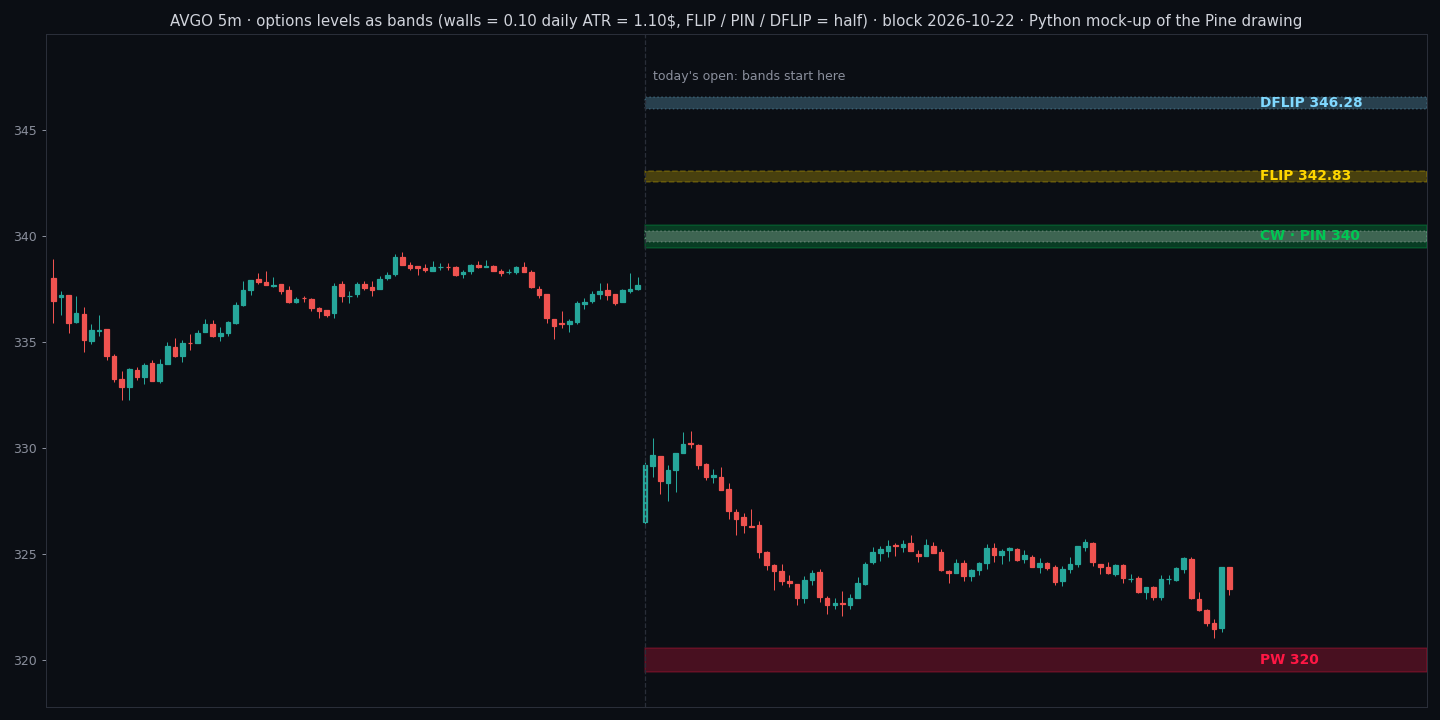
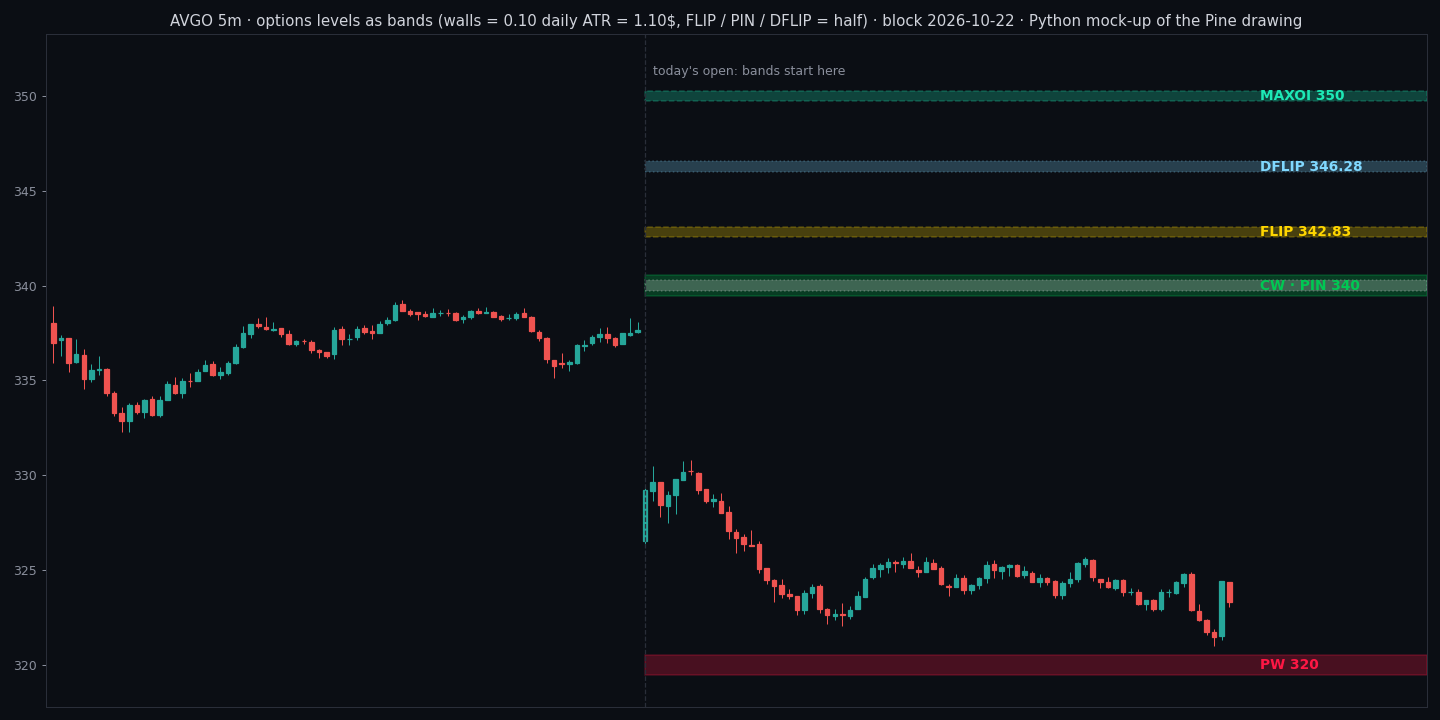
Options levels: MAXOI (highest open-interest strike, fixed for the day) in the block, the indicator and the panel
Measured on 560 symbol-days of GEXRadar snapshots: MAXOI stays fixed all day on 85% of days, while PIN follows price.

diff --git a/reports/make_gex_bands_preview.py b/reports/make_gex_bands_preview.py
@@ -8,7 +8,7 @@ import yfinance as yf
 from vzones.gex_block import parse_block
 ROOT = pathlib.Path(__file__).resolve().parent.parent
 
-BLOCK = "DATE=2026-10-22\nAVGO: CW=340 PW=320 FLIP=342.83 PIN=340 DFLIP=346.28"
+BLOCK = "DATE=2026-10-22\nAVGO: CW=340 PW=320 FLIP=342.83 PIN=340 DFLIP=346.28 MAXOI=350"
 lv = parse_block(BLOCK, "AVGO")
 d = yf.Ticker("AVGO").history(period="5d", interval="5m", prepost=False)
 days = sorted({t.date() for t in d.index})[-2:]
@@ -20,8 +20,8 @@ H, L, O, C = (d[k].to_numpy() for k in ("High", "Low", "Open", "Close")); N = le
 t0 = next(i for i, t in enumerate(d.index) if t.date() == days[-1])
 
 BG, GR, TX, MUT = "#0b0e14", "#2a2e39", "#d1d4dc", "#8a8f9c"
-COL = {"CW": "#00c853", "PW": "#ff1744", "FLIP": "#ffd600", "PIN": "#e0e0e0", "DFLIP": "#80d8ff"}
-STY = {"CW": "-", "PW": "-", "FLIP": "--", "PIN": ":", "DFLIP": ":"}
+COL = {"CW": "#00c853", "PW": "#ff1744", "FLIP": "#ffd600", "PIN": "#e0e0e0", "DFLIP": "#80d8ff", "MAXOI": "#1de9b6"}
+STY = {"CW": "-", "PW": "-", "FLIP": "--", "PIN": ":", "DFLIP": ":", "MAXOI": "--"}
 band = 0.10 * datr
 fig, ax = plt.subplots(figsize=(16, 8), facecolor=BG)
 ax.set_facecolor(BG); ax.tick_params(colors=MUT); [s.set_color(GR) for s in ax.spines.values()]
@@ -30,7 +30,7 @@ for i in range(N):
     ax.vlines(i, L[i], H[i], color=col, lw=.8)
     ax.add_patch(Rectangle((i - .3, min(O[i], C[i])), .6, max(abs(C[i] - O[i]), 1e-3), color=col))
 right = N + 25
-KEYS = ("CW", "PW", "FLIP", "PIN", "DFLIP")
+KEYS = ("CW", "PW", "FLIP", "PIN", "DFLIP", "MAXOI")
 for i, k in enumerate(KEYS):
     x = lv[k]
     hb = (0.5 if k in ("CW", "PW") else 0.25) * band
@@ -43,9 +43,9 @@ for i, k in enumerate(KEYS):
     name = " · ".join([k] + [KEYS[j] for j in same if j > i])
     ax.text(N + 3, x, f"{name} {x:g}", color=COL[k], va="center", fontsize=11, fontweight="bold")
 ax.axvline(t0, color=GR, lw=1, ls="--")
-ax.text(t0 + 1, max(H.max(), lv["DFLIP"]) + band, "today's open: bands start here", color=MUT, fontsize=10)
+ax.text(t0 + 1, max(H.max(), lv["DFLIP"], lv["MAXOI"]) + band, "today's open: bands start here", color=MUT, fontsize=10)
 ax.set_xlim(-1, right); ax.set_xticks([])
-ax.set_ylim(min(L.min(), lv["PW"]) - 2 * band, max(H.max(), lv["DFLIP"]) + 3 * band)
+ax.set_ylim(min(L.min(), lv["PW"]) - 2 * band, max(H.max(), lv["DFLIP"], lv["MAXOI"]) + 3 * band)
 ax.set_title(f"AVGO 5m · options levels as bands (walls = 0.10 daily ATR = {band:.2f}$, FLIP / PIN / DFLIP = half) · "
              f"block {lv['DATE']} · Python mock-up of the Pine drawing", color=TX, fontsize=12)
 fig.tight_layout(); out = ROOT / "reports/styles/gex_bands_preview.png"

diff --git a/tests/test_gex_block.py b/tests/test_gex_block.py
@@ -27,6 +27,12 @@ def test_missing_symbol_and_garbage():
     assert lv["CW"] == 360 and lv["PW"] is None and lv["DATE"] == ""
 
 
+def test_maxoi_key():
+    lv = parse_block("SPY: CW=770 PW=750 FLIP=774.57 PIN=760 DFLIP=771.36 MAXOI=750", "SPY")
+    assert lv["MAXOI"] == 750
+    assert parse_block(BLOCK, "INTU")["MAXOI"] is None
+
+
 def test_round_trip():
     rows = {"^SPX": {"CW": 6800.0, "PW": 6700.0, "FLIP": 6755.5012, "PIN": 6750.0, "DFLIP": None}}
     text = format_block("2026-10-22", rows)

diff --git a/tools/gex_block.py b/tools/gex_block.py
@@ -22,7 +22,7 @@ sys.path.insert(0, os.path.dirname(os.path.dirname(os.path.abspath(__file__))))
 from vzones.gex_block import format_block  # noqa: E402
 
 NY = ZoneInfo("America/New_York")
-FIELDS = {"CW": "call_wall", "PW": "put_wall", "FLIP": "gamma_flip", "PIN": "pin", "DFLIP": "delta_flip"}
+FIELDS = {"CW": "call_wall", "PW": "put_wall", "FLIP": "gamma_flip", "PIN": "pin", "DFLIP": "delta_flip", "MAXOI": "max_oi_strike"}
 
 
 def get(url: str, timeout: float = 20):

diff --git a/vzones/gex_block.py b/vzones/gex_block.py
@@ -17,7 +17,7 @@ from __future__ import annotations
 
 import re
 
-KEYS = ("CW", "PW", "FLIP", "PIN", "DFLIP")
+KEYS = ("CW", "PW", "FLIP", "PIN", "DFLIP", "MAXOI")
 _NUM = re.compile(r"[-+]?[0-9]*\.?[0-9]+")
 
 
